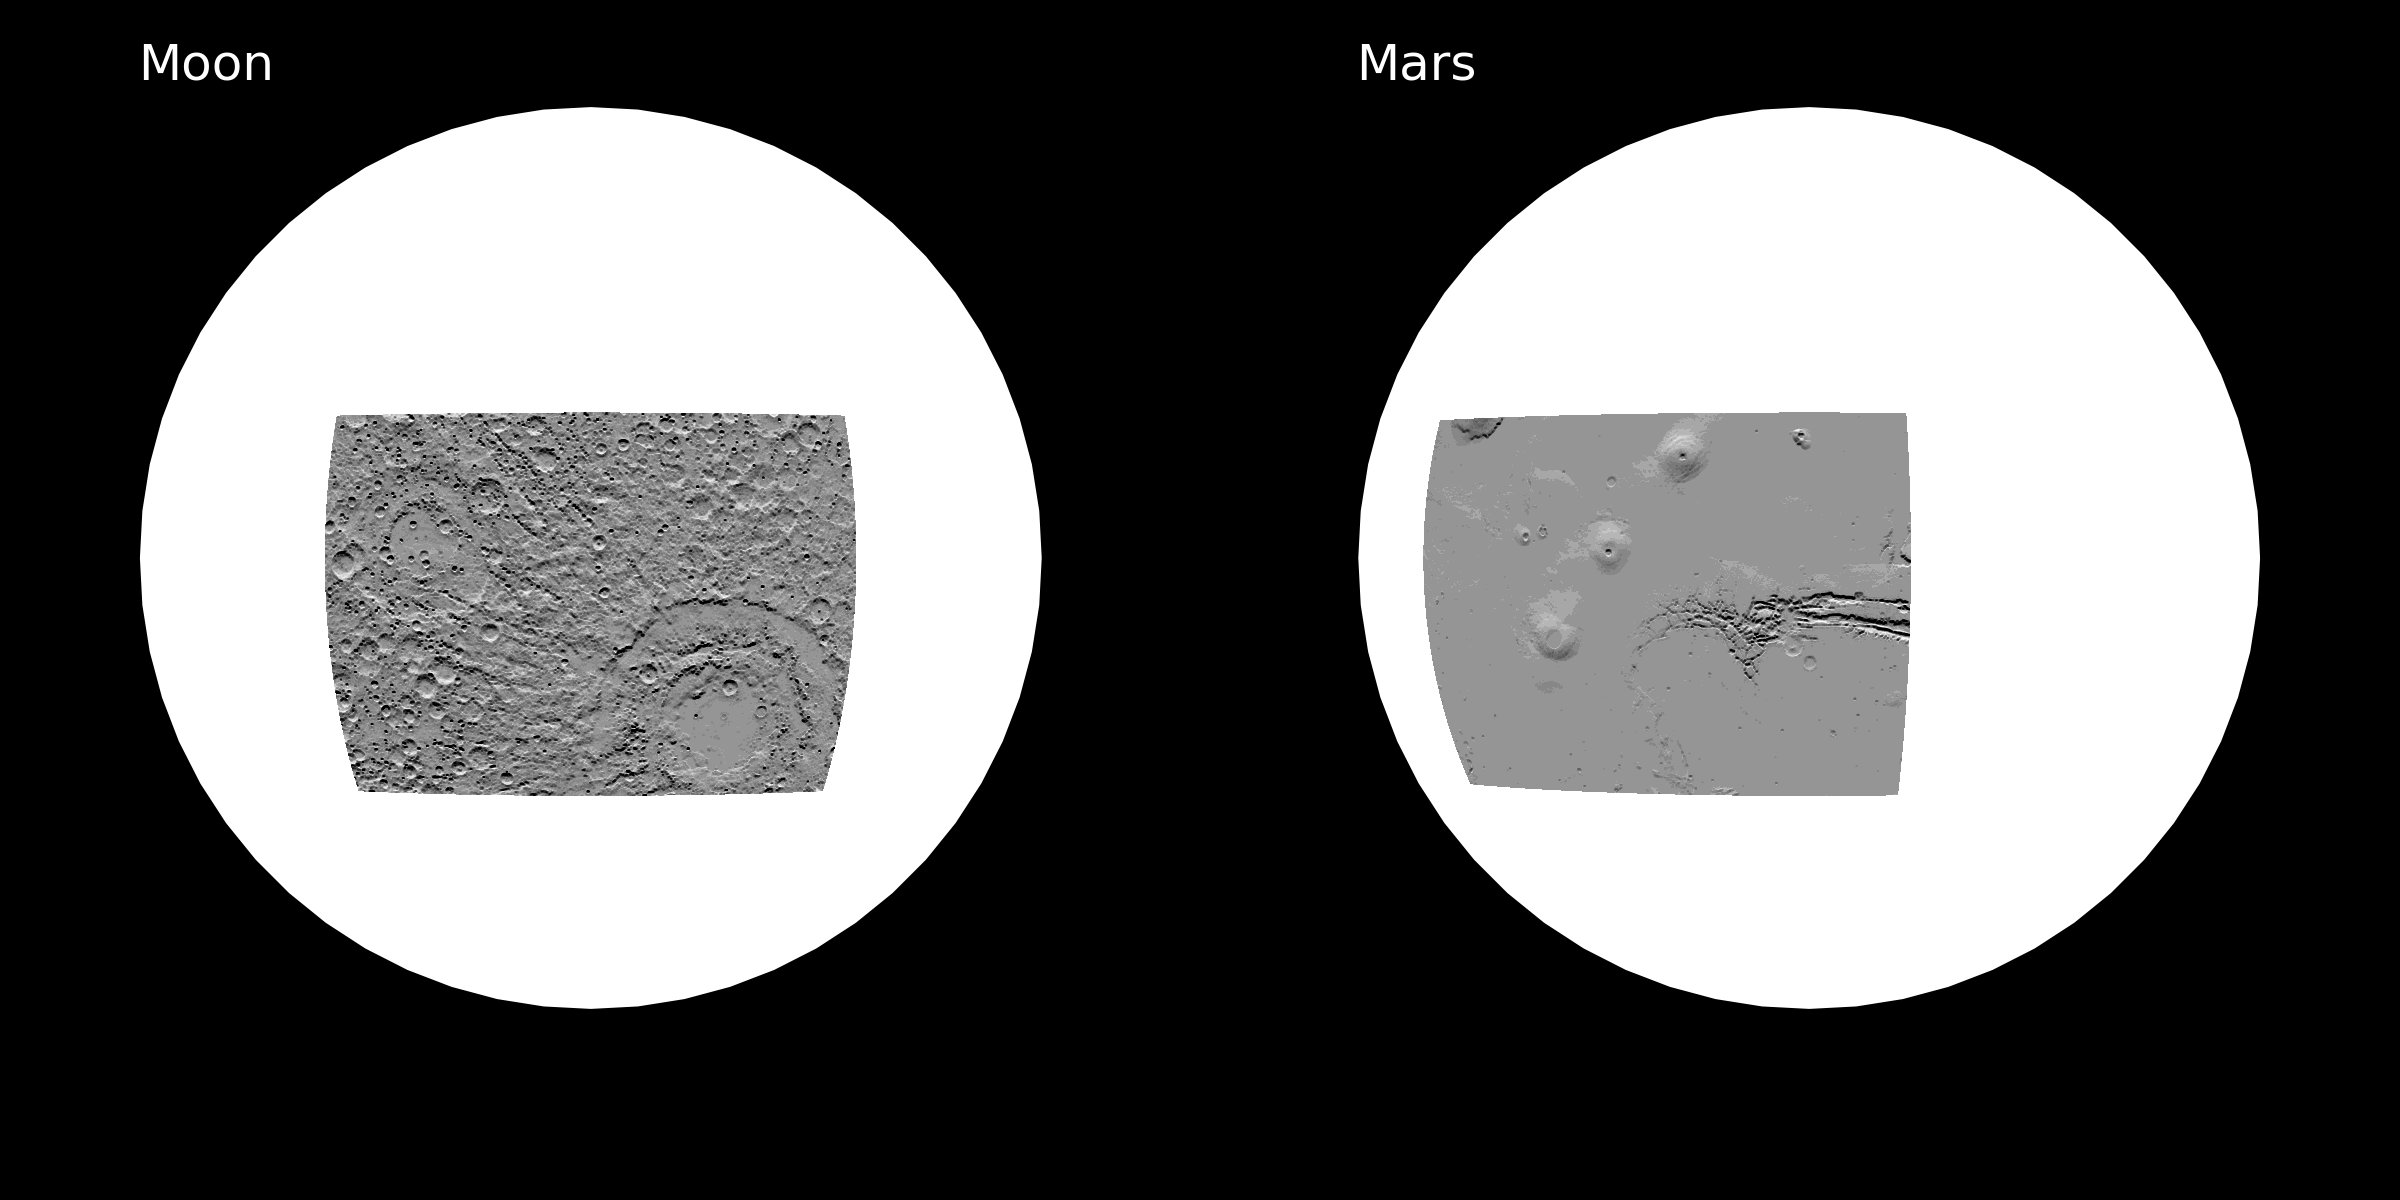
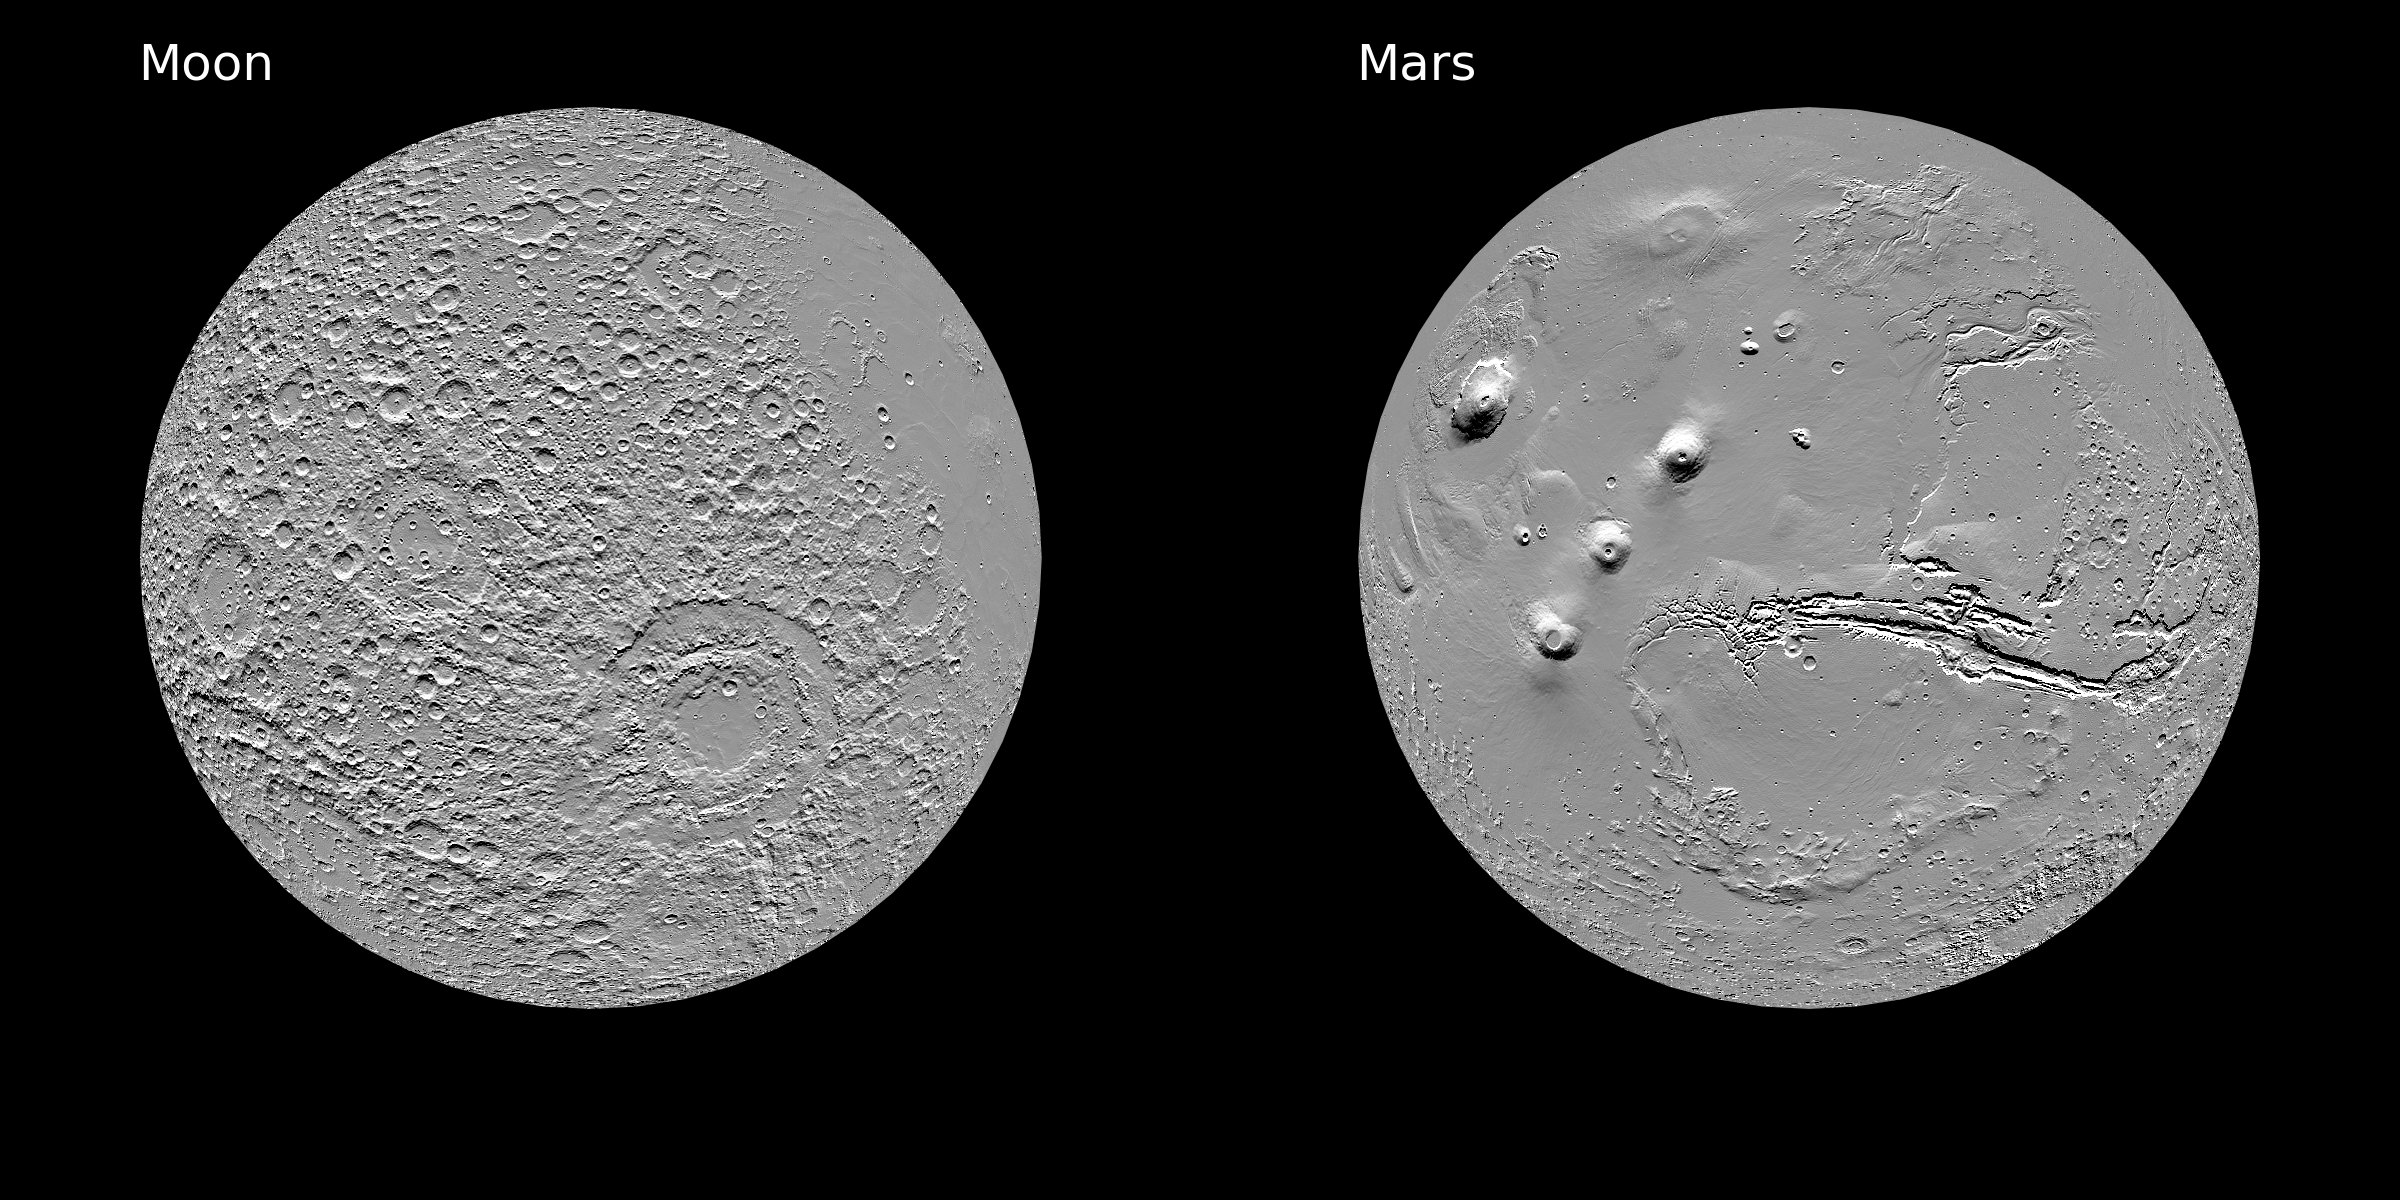
cividis and thermal

diff --git a/moonmars_topo_z.py b/moonmars_topo_z.py
@@ -3,6 +3,7 @@ import matplotlib.pyplot as plt
 import cartopy.crs as ccrs
 from netCDF4 import Dataset
 from cmaputil import cm
+from cmocean import cm as cmo
 
 path1 = "/local/kloewer/marsmoon/Moon/LOLA2600p_geoid.grd"
 path2 = "/local/kloewer/marsmoon/Mars/MarsTopo_geoid_jgmro_110c.grd"
@@ -26,10 +27,10 @@ z_mars = nc["z"][y0:y1,x0:x1]
 
 ## plot data
 
-# levels for contourf
+# vmin vmax for pcolormesh
 # use percentiles to ignore outliers
-lev_moon = np.linspace(np.percentile(z_moon,0.5),np.percentile(z_moon,99.9),64)
-lev_mars = np.linspace(np.percentile(z_mars,0.5),np.percentile(z_mars,99.99),64)
+lev_moon = (np.percentile(z_moon,2),np.percentile(z_moon,99.8))
+lev_mars = (np.percentile(z_mars,1),np.percentile(z_mars,99.9))
 
 # figure
 fig = plt.figure(figsize=(8,4))
@@ -51,16 +52,16 @@ ax_moon.set_global()
 ax_mars.set_global()
 
 # plotting the height
-qmo = ax_moon.contourf(lon_moon,lat_moon,z_moon,lev_moon,transform=contourfproj,cmap=cm.cividis,extend="both")
-qma = ax_mars.contourf(lon_mars,lat_mars,z_mars,lev_mars,transform=contourfproj,cmap=cm.cividis,extend="both")
+qmo = ax_moon.pcolormesh(lon_moon,lat_moon,z_moon,vmin=lev_moon[0],vmax=lev_moon[1],transform=contourfproj,cmap=cm.cividis)
+qma = ax_mars.pcolormesh(lon_mars,lat_mars,z_mars,vmin=lev_mars[0],vmax=lev_mars[1],transform=contourfproj,cmap=cmo.thermal)
 
-cb_moon = plt.colorbar(qmo,cax=cax_moon,orientation="horizontal")
-cb_moon.set_ticks(np.arange(-4,8,1))
+cb_moon = plt.colorbar(qmo,cax=cax_moon,orientation="horizontal",extend="both")
+cb_moon.set_ticks(np.arange(-6,9,2))
 cb_moon.ax.tick_params(labelsize=8,color="w",labelcolor="w")
 cb_moon.outline.set_edgecolor("w")
 cb_moon.set_label("Topography [km]",color="w",size=8)
 
-cb_mars = plt.colorbar(qma,cax=cax_mars,orientation="horizontal")
+cb_mars = plt.colorbar(qma,cax=cax_mars,orientation="horizontal",extend="both")
 cb_mars.set_ticks(np.arange(-10,30,2))
 cb_mars.ax.tick_params(labelsize=8,color="w",labelcolor="w")
 cb_mars.outline.set_edgecolor("w")
@@ -69,5 +70,5 @@ cb_mars.set_label("Topography [km]",color="w",size=8)
 ax_moon.set_title("Moon",loc="left",color="w")
 ax_mars.set_title("Mars",loc="left",color="w")
 
-plt.savefig("figs/moon_mars_z.png",dpi=300,facecolor="k")
+plt.savefig("figs/moon_mars_z_thermal.png",dpi=300,facecolor="k")
 plt.close(fig)

diff --git a/moonmars_topo_grad.py b/moonmars_topo_grad.py
@@ -32,10 +32,10 @@ dz_mars = np.gradient(z_mars,axis=0)
 
 ## plot data
 
-# levels for contourf
+# vmin vmax for pcolormesh
 # use percentiles to ignore outliers
-lights_moon = np.linspace(np.percentile(dz_moon,0.5),np.percentile(dz_moon,99.5),32)
-lights_mars = np.linspace(np.percentile(dz_mars,0.5),np.percentile(dz_mars,99.5),64)
+lev_moon = (np.percentile(dz_moon,2),np.percentile(dz_moon,98))
+lev_mars = (np.percentile(dz_mars,1),np.percentile(dz_mars,99))
 
 # figure
 fig = plt.figure(figsize=(8,4))
@@ -55,8 +55,8 @@ ax_moon.set_global()
 ax_mars.set_global()
 
 # plotting the gradient
-ax_moon.contourf(lon_moon,lat_moon,dz_moon,lights_moon,transform=contourfproj,cmap="Greys",extend="both")
-ax_mars.contourf(lon_mars,lat_mars,dz_mars,lights_mars,transform=contourfproj,cmap="Greys",extend="both")
+ax_moon.pcolormesh(lon_moon,lat_moon,dz_moon,vmin=lev_moon[0],vmax=lev_moon[1],transform=contourfproj,cmap="Greys")
+ax_mars.pcolormesh(lon_mars,lat_mars,dz_mars,vmin=lev_mars[0],vmax=lev_mars[1],transform=contourfproj,cmap="Greys")
 
 ax_moon.set_title("Moon",loc="left",color="w")
 ax_mars.set_title("Mars",loc="left",color="w")
